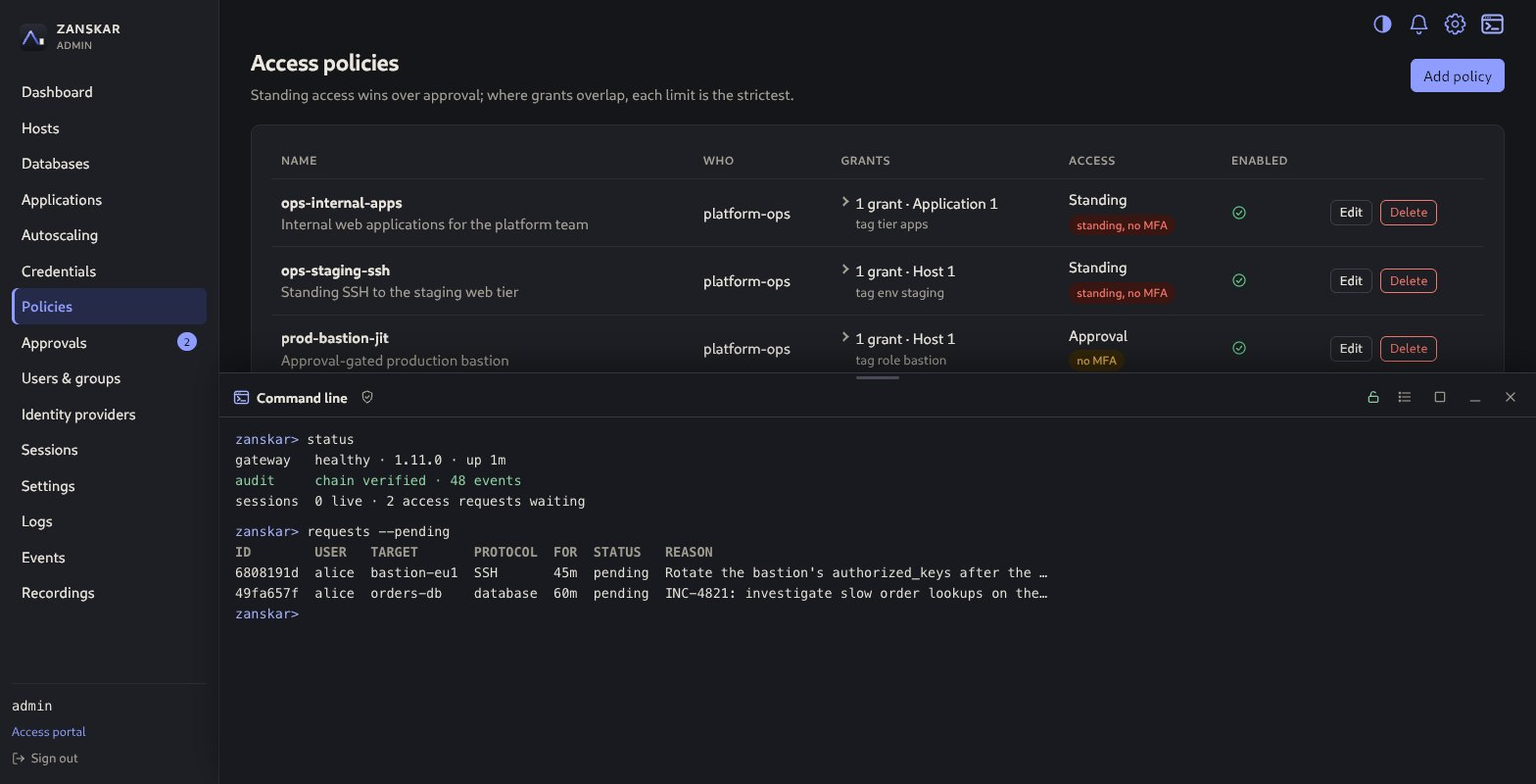
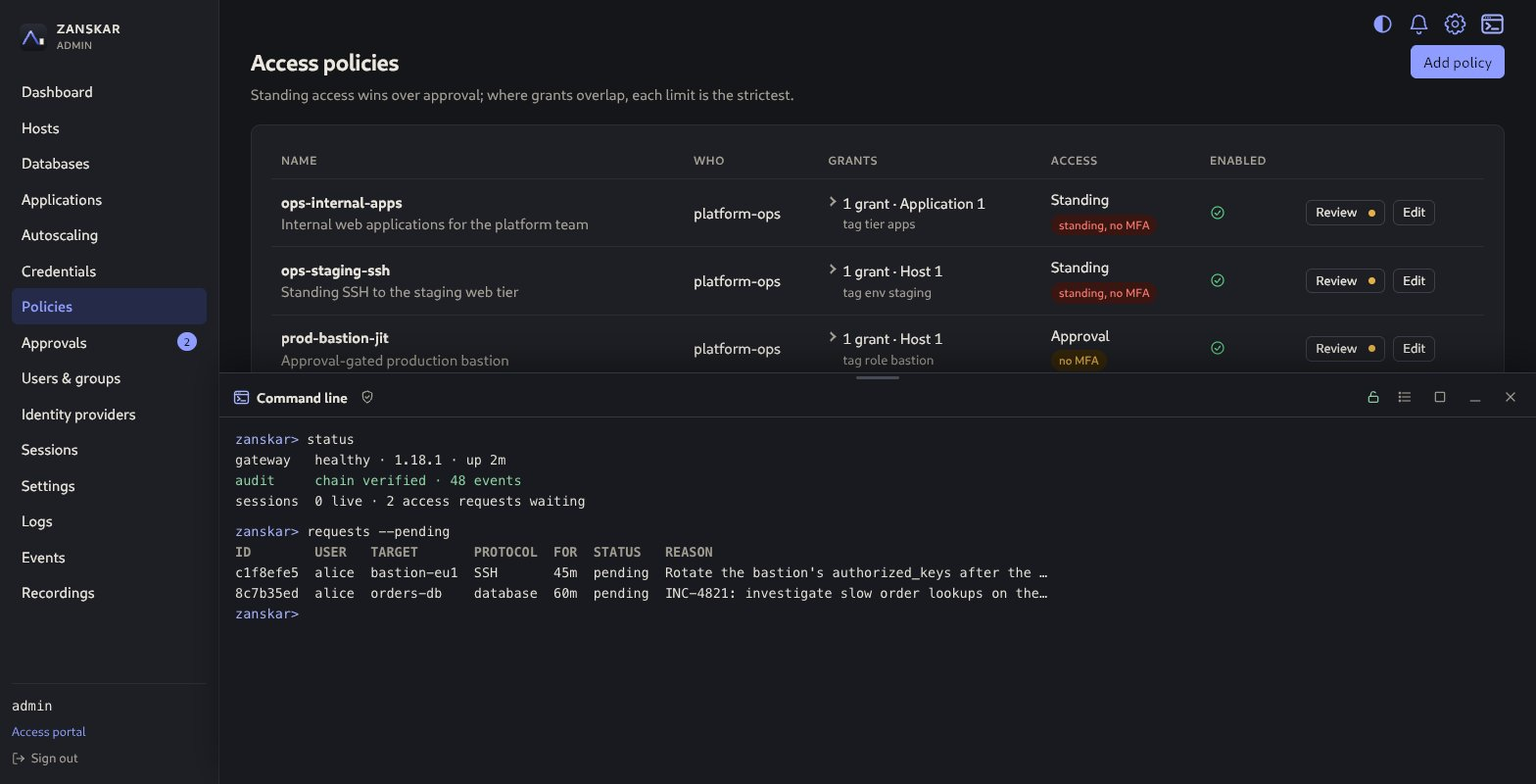
Site: screenshots retaken at 1.18.1
The site and the README still showed 1.11.0: the sidebar's strip beside the
selected item (gone in this batch), the dashboard before its rows of four and
without the providers tile (1.17.0 and 1.18.0). Retaken with hack/screenshots
from a Linux gateway built at this release (the gateway card reads /proc), one
SSH session opened so the activity tiles are not empty; both schemes, the same
thirteen pages, the 1.11.0 files removed.

diff --git a/site/guide/index.html b/site/guide/index.html
@@ -9,7 +9,7 @@
   <meta property="og:title" content="Zanskar how-to guide">
   <meta property="og:description" content="From first sign-in to approved, recorded sessions: every admin and user task in Zanskar 1.2.">
   <meta property="og:type" content="website"><meta property="og:url" content="https://albatroxxx.github.io/zanskar/guide/">
-  <meta property="og:image" content="https://albatroxxx.github.io/zanskar/assets/policies-1.11.0.jpg"><meta name="twitter:card" content="summary_large_image">
+  <meta property="og:image" content="https://albatroxxx.github.io/zanskar/assets/policies-1.18.1.jpg"><meta name="twitter:card" content="summary_large_image">
   <link rel="icon" href="../assets/logo.svg" type="image/svg+xml"><link rel="stylesheet" href="../assets/site.css"><script src="../assets/site.js" defer></script>
 </head>
 <body>
@@ -27,10 +27,10 @@
 
     <h2 id="dashboard">The dashboard and the corner strip</h2>
     <p>An administrator signs in to the <strong>Dashboard</strong>, which fits one screen: the fleet and what waits on a decision on the left, the gateway itself in a column on the right. Each number opens the page that manages it, and the logo returns here from anywhere. <em>Inventory</em> comes first and counts the hosts by operating system, the databases by engine, the applications, and the autoscaling groups with their instance health. Each section is one row of four tiles. <em>Needs attention</em> counts pending approvals (with how long the oldest has waited), hosts waiting on a key or certificate decision, the day's failed sign-ins, and the day's failed actions, with what most of them were (<em>mostly provider syncs</em>). <em>Activity</em> counts the open sessions, the just-in-time grants running now (and how many end within the hour), the day's sessions and the day's refused connections. A provider that fails its sync is a notice above the tiles, not a tile. Under <em>Refused connections</em> and <em>Sessions</em> seven small columns show the last seven calendar days in the console's time zone, today last and in the accent colour, counted so far; hover a column for its day and count. <em>Security posture</em> counts what weakens access: grants that stand without asking for MFA and the policies they are in, accounts with no authenticator yet, accounts that have not signed in for 90 days, and administrators. On the right, a clock shows the gateway's own time, ticking each second, with the date and the time zone on a line below (<em>Asia/Kolkata · UTC+05:30</em>); the zone is the one every time in the console is shown in, set under <a href="#settings">Settings</a>, <em>Display</em>. The <em>Gateway</em> card under it shows the running version, CPU, memory and the disks the gateway writes, each a name and a reading led by a percentage (<em>45% used · 410.7 MB of 908.6 MB</em>) over a bar, in the warning or danger colour when it is one; a disk's percentage is worked out as <code>df</code> works out <em>Use%</em>, so it matches what a terminal on the host shows, and the recordings disk warns before recordings start failing. Application and database sessions are gauges against their caps (<em>80% of the cap · 8 of 10 open</em>), warning at four fifths and in danger at the cap, where the next one is refused; a kind with no cap is a count instead. Below them, the disk Zanskar's container images take on the host and whether guacd answers. <em>Storage</em> closes the column with two tiles: the <em>Audit log</em>'s size, estimated from its newest thousand events, with how many it holds, and the size of the <em>Recordings</em> kept, exact, with how many. The two columns start and end level. A review-only account lands on an audit dashboard instead: the day's failures and sessions, with a button that checks the whole audit chain. The access portal opens on Targets, with a strip of your own open sessions, pending requests and grants about to run out.</p>
-    <figure><img src="../assets/dashboard-1.11.0.jpg" alt="Zanskar admin dashboard on one screen: on the left, rows of tiles for the inventory, what needs attention, activity with a week of sessions drawn as small columns, and security posture (two grants standing without MFA, in red); on the right, a clock with the date and time zone, the gateway card with CPU, memory, disk and session-cap gauges, each a name and a percentage on one line over a bar, and storage tiles for the audit log and the recordings" width="1568" height="736" loading="lazy"></figure>
+    <figure><img src="../assets/dashboard-1.18.1.jpg" alt="Zanskar admin dashboard on one screen: on the left, rows of tiles for the inventory, what needs attention, activity with a week of sessions drawn as small columns, and security posture (two grants standing without MFA, in red); on the right, a clock with the date and time zone, the gateway card with CPU, memory, disk and session-cap gauges, each a name and a percentage on one line over a bar, and storage tiles for the audit log and the recordings" width="1568" height="736" loading="lazy"></figure>
     <p>The top-right corner holds four controls, each opening under its own icon. The <strong>theme</strong> icon (a half-filled circle) offers <em>System</em>, <em>Light</em> and <em>Dark</em>; <em>System</em> follows the operating system, and the choice is kept in this browser only. The access and audit portals have this one control alone. The <strong>bell</strong> lights when a newer release is published and drops a small panel with the update (see <a href="../docs/#update">updating</a>). The <strong>gear</strong> drops a menu of <em>Restart gateway</em>, <em>Reboot host</em> and <em>Stop host</em>, the last in red; the arrow keys move through it and Escape closes it. Each action lets live sessions finish for the minutes you choose, asks you to type the gateway's hostname, and asks for a code from your authenticator unless you proved one in the last five minutes. Stopping is deliberate about its cost: nothing in the console can start a stopped machine, so starting it again needs the host or the cloud console. An action this gateway cannot take is greyed out with one line of why: on Docker and Kubernetes the two host actions say <em>Needs a systemd host.</em> The <strong>terminal</strong> icon opens the <a href="#console-cli">command line</a>.</p>
     <p>Once an action starts, its dialog follows it to the end instead of closing: <em>Waiting for live sessions</em> with the count and the deadline, then <em>Installing 1.10.0</em> in the installer's own words for an update, <em>Restarting</em> or <em>Rebooting the host</em>, and <em>Back on 1.10.0</em> or <em>Back online</em>. It ends with a green tick (<em>Updated to 1.10.0</em>, <em>Gateway restarted</em>, <em>Host rebooted</em>, <em>Host stopped</em>) and <strong>Close</strong>, or <strong>Reload console</strong> after an update, which loads the new version's console; or it ends with the reason it failed: an installer that refused the download, a gateway that came back on the old version, or no answer within the time allowed. Success is judged by the gateway's own answers, a fresh process on the version asked for, not by the request having been sent. While sessions are still finishing, <em>Cancel</em> stops the action and the gateway carries on. Closing the dialog does not stop the action.</p>
-    <figure><img src="../assets/gateway-gear-1.11.0.jpg" alt="Zanskar gateway menu dropped from the gear in the corner: Restart gateway, Reboot host and Stop host, the two host actions greyed with the reason" width="1568" height="720" loading="lazy"></figure>
+    <figure><img src="../assets/gateway-gear-1.18.1.jpg" alt="Zanskar gateway menu dropped from the gear in the corner: Restart gateway, Reboot host and Stop host, the two host actions greyed with the reason" width="1568" height="720" loading="lazy"></figure>
     <p>Your username at the bottom of the sidebar opens your account: name, email, roles, authenticator state and sign-in times.</p>
     <h2 id="users">Add users and groups</h2>
     <ol><li><strong>Users &amp; groups</strong> in the admin sidebar. Create a user with a username, display name and one or more roles, and pick the groups they belong to in the same form (<em>Groups</em>, a searchable list with <em>Select all</em>, shown once a group exists). Leave the password blank and a one-time password is generated and shown once, for you to pass on; at their first sign-in the user must replace it, then enrol an authenticator, before reaching anything. <em>Reset password</em> on the same page does the same later.</li><li>Create a group, and pick its members as you create it (<em>Members</em>), or add them later. The group and its memberships are made together: if one of them cannot be made, nothing is. A group synced from an identity provider is greyed out in a user's <em>Groups</em> list, <em>Members come from the provider</em>, since the next sync would undo a member added by hand. Policies are written against groups (or a single user), so a sensible starting set is one group per team that needs access, plus one for approvers.</li><li>Disable a user to block sign-in without deleting history; revoke their sessions from the same page if they are connected right now. An account its identity provider took away, because the person was deleted or disabled there, cannot be enabled here while that provider still lists or pushes its people: <em>Enable</em> is greyed out and the status says <em>Keycloak no longer has this person</em>. It is enabled again by itself when the provider has the person again.</li></ol>
@@ -117,7 +117,7 @@
     </tbody></table>
     <p><strong>The user's own login.</strong> A target's credential slot can be set to <em>User supplied</em> instead of a stored credential: Zanskar then asks the person for their own username and password when they connect, and for SSH they may give their own private key instead, with its passphrase when it has one. It is checked when they click Connect, used for that one session and never stored; it is not a credential, so it is not listed under Credentials. On their Targets page the two read apart by colour: a protocol Zanskar signs them in to with a stored credential is green, one where they give their own login keeps the protocol's colour, and where a grant offers both they sit side by side; each button's tooltip says which it is.</p>
     <p>Passwords and SSH keys are rotated in place: the credential keeps its id, so every target bound to it picks up the new secret immediately. A certificate authority is rotated in two steps from its Setup panel, prepare then cut over, with a per-target test in between, so no host is left refusing logins.</p>
-    <figure><img src="../assets/ssh-ca-1.11.0.jpg" width="1568" height="720" alt="Zanskar Credentials page with the Setup panel of the linux-fleet-ca certificate authority open: the commands that install its public key on a Linux target, the bound targets web-01 and web-02 each with a Test button, and the two-step key rotation" loading="lazy"><figcaption>A certificate authority's Setup panel: the commands for each Linux target, a certificate login test per bound target, and the two-step rotation.</figcaption></figure>
+    <figure><img src="../assets/ssh-ca-1.18.1.jpg" width="1568" height="720" alt="Zanskar Credentials page with the Setup panel of the linux-fleet-ca certificate authority open: the commands that install its public key on a Linux target, the bound targets web-01 and web-02 each with a Test button, and the two-step key rotation" loading="lazy"><figcaption>A certificate authority's Setup panel: the commands for each Linux target, a certificate login test per bound target, and the two-step rotation.</figcaption></figure>
 
     <h2 id="targets">Enroll targets</h2>
     <p><strong>Hosts</strong> in the admin sidebar, then <strong>Add host</strong> (databases have their own <a href="#database">Databases</a> page, web applications their own <a href="#applications">Applications</a> page). A name, a hostname or IP address and an operating system are enough to start; tags, each a key and a value such as <code>env</code> <code>prod</code> or <code>role</code> <code>db</code>, are what policies select on, so tag consistently from day one. <strong>Add tag</strong> gives a row with a Key box and a Value box.</p>
@@ -146,7 +146,7 @@ netsh advfirewall firewall add rule name="WinRM HTTPS" dir=in action=allow proto
     <p>For a Linux desktop or anything else that serves VNC: add the host (on a Linux host the VNC port is under <strong>More ports</strong>; operating system <em>other</em> shows it directly), set the VNC port if it is not 5900, bind a password credential to <em>vnc</em> (with a username only if the VNC server asks for one), then <strong>Probe</strong>. The probe reads the server's VNC version; there is no host key or certificate to pin. VNC itself usually does not encrypt, so keep the hop between the gateway and the machine on a private network. Desktops go through guacd, as for RDP, and are recorded the same way. VNC sessions have no file transfer.</p>
     <h3 id="database">PostgreSQL, MySQL and MariaDB, including Amazon RDS</h3>
     <ol><li>Under <strong>Databases</strong>, add the endpoint with its engine (<em>postgres</em>, <em>mysql</em> or <em>mariadb</em>), hostname and port (5432 or 3306). Optionally record the engine version so the matching <code>psql</code>, <code>mysql</code> or <code>mariadb</code> client is used, the database to open, and how TLS to the database is checked. <strong>Verified</strong> is the default and needs the CA bundle that signs the database's certificate: for Amazon RDS, paste your region's bundle from <code>https://truststore.pki.rds.amazonaws.com/&lt;region&gt;/&lt;region&gt;-bundle.pem</code> (the global bundle is too large). <em>Encrypted, not verified</em> is available and shows a warning on the target, since whoever can intercept the connection could then impersonate the database and receive its password.</li><li>In its credential slot pick a vaulted password credential, or <em>User supplied</em> to have each user type their own database login.</li><li>Ensure Docker or Podman is available on the gateway host, and that the <code>zanskar</code> service user may use it. The package does not grant that by itself, because the Docker socket is as powerful as root. On a host that serves database targets run <code>sudo systemctl edit zanskar</code>, add <code>[Service]</code> and <code>SupplementaryGroups=docker</code>, and restart; for Podman, set <code>ZANSKAR_DOCKER_PATH</code> to the <code>podman</code> binary. Each session starts a client container connected to a credential-holding sidecar on a private per-session network: pgbouncer for PostgreSQL, the gateway's own image running its MySQL relay for MySQL and MariaDB. The container the user types into never receives the password; the sidecar refuses re-authentication so it cannot be used to guess one.</li><li>A MySQL or MariaDB session opens with no schema selected; users pick one with <code>USE</code>.</li></ol>
-        <figure><img src="../assets/databases-1.11.0.jpg" width="1568" height="720" alt="Zanskar Databases page listing a MySQL 8.4 database whose TLS is encrypted but not verified, and a PostgreSQL 16 database on Amazon RDS whose TLS is verified, each with its database, credential and tags" loading="lazy"><figcaption>The Databases page flags any database whose certificate Zanskar is not checking.</figcaption></figure>
+        <figure><img src="../assets/databases-1.18.1.jpg" width="1568" height="720" alt="Zanskar Databases page listing a MySQL 8.4 database whose TLS is encrypted but not verified, and a PostgreSQL 16 database on Amazon RDS whose TLS is verified, each with its database, credential and tags" loading="lazy"><figcaption>The Databases page flags any database whose certificate Zanskar is not checking.</figcaption></figure>
     <h3 id="applications">Web applications</h3>
     <p>An application is an internal web app reached through Zanskar instead of a VPN: a wiki, a dashboard, a build server. It opens in a browser that runs beside the gateway, in a container made for that session, and is streamed to the person as pixels through guacd, the way a VNC desktop is. Nothing is installed on the client, no DNS record or certificate is needed, and the person's own browser never talks to the application. Policies grant it under the <em>HTTP</em> protocol, with approvals, time windows and limits as for a host. It is a full browser: Chromium's own address bar, tabs, Back, Forward, Reload and Home (the application's start page, which every new tab opens too), confined to the application's origin, so an engineer can see where a page is and open another while nothing else is reachable. Developer tools open when the grant allows them (below).</p>
     <ol><li><strong>Before the first application</strong>: the gateway host needs a guacd address (the one RDP and VNC use) and a container runtime the service user can reach, the same requirement as <a href="#database">database access</a>: the <code>SupplementaryGroups=docker</code> drop-in, or <code>ZANSKAR_DOCKER_PATH=podman</code>. guacd must be on the runtime's default bridge, where the install page's <code>docker run</code> puts it. Until these are met the Applications page is a checklist (guacd, container runtime, browser image) with <strong>Check again</strong>, and <strong>Add application</strong> appears once all three pass; a browser image the host has not pulled yet passes, because the first session pulls it. Not available in the Compose stack or on Kubernetes, where the gateway has no container runtime.</li><li><strong>Applications</strong> in the admin sidebar, then <strong>Add application</strong>: a name, the upstream (<code>http://10.20.6.30:8080</code> or <code>https://wiki.internal:8443</code>, the page the browser opens), any <strong>Other endpoints</strong> the application uses, such as an API on another host or its sign-in page (up to 31, each an address and a name for its bookmark), where its pages may load from beside those (<strong>Dependencies</strong>: <em>Any public address</em>, the default, with <strong>Private networks</strong> and <strong>Private hosts</strong> its pages may also load from; or <em>Its origins only</em>, under which nothing is read and nothing else is reached, and which ends the application's open sessions when chosen later), an optional CA bundle for <code>https</code> addresses, and tags. An <code>https</code> address is verified against the system roots or against the bundle; there is no way to switch verification off. Every address passes the same rules as any target's: never loopback, link-local, a cloud metadata service or the gateway itself. Removing an endpoint ends the sessions open on the application.</li><li>Write a policy granting <em>HTTP</em> on the application, by tag or by name. Require approval, time windows, the idle timeout, the maximum session and the clipboard rule apply as for a desktop. <strong>Developer tools</strong>, an application grant's own condition, off by default, opens Chromium's developer tools in that person's browser for troubleshooting: the browser is that session's alone, so the tools see nothing else, and <code>chrome://</code> pages stay blocked. Where several grants admit a person, every one must allow them; turning them off ends a running session. An application holds no credential: the application's own sign-in, if it has one, is the person's.</li><li>People find it under the <strong>Applications</strong> tab of their Targets page and open it as a session tab. The gateway starts, for that session alone, a private network with no route out, a sandboxed Chromium, and a relay that is the browser's only way out: it takes connections to the application's addresses, each to the address the gateway looked up when the session started, and, unless the application is held to its origins, reads the session's requests as an HTTP proxy (terminating TLS with a certificate authority made for that session alone, verifying the real site itself) and lets its pages fetch what they depend on (stylesheets, scripts, fonts, images, frames, API calls, WebSockets) from any public address on any port, resolving each name itself and refusing anything private, link-local or a cloud metadata service; a private address its pages need is allowed under <strong>Dependencies</strong> as a network or a host, and the application's page in the console lists what was refused (<em>Blocked</em>) with <strong>Allow</strong> beside each private host. Opening a page is held to the application's addresses either way: the address bar, a link, a new tab or a popup to anywhere else shows <em>This page is blocked</em>. Chromium opens the upstream, shows the other endpoints as one bookmarks folder named after the application, and blocks downloads, printing, developer tools, extensions, sign-in, sync, password saving and autofill. An endpoint whose name does not resolve is left out of that session; the rest opens. Everything is destroyed when the session ends.</li><li>Sessions appear on the Sessions pages like a desktop: terminable and shadowable there, recorded as a pixel stream and replayable, ended by the policy's limits, a terminate, a sign-out or a policy change. The audit log records the session's connect, start and end with protocol <em>http</em>.</li></ol>
@@ -171,7 +171,7 @@ netsh advfirewall firewall add rule name="WinRM HTTPS" dir=in action=allow proto
     <p>There is no moment to configure an instance that appeared four minutes ago and may be gone in an hour, so the machine image or the launch template's user data has to do it. For a Windows group that means the <a href="#winrm-listener">HTTPS WinRM listener</a>, the firewall rule, the operator account in local Administrators, and the domain join if you use one. Bake it into the image where you can; user data that runs on first boot works too, and is slower to become reachable.</p>
     <p>Each instance is pinned <strong>separately</strong>. The first time an instance answers, Zanskar keeps the RDP and WinRM certificate it presented, along with its SSH host key for a Linux group. If that instance later presents a different certificate, it is not re-trusted: the instance is marked unhealthy, the change is audited, and sessions on it end. Replacing a certificate in place therefore takes the instance out of the pool until the group replaces it, which is the behaviour we want and will surprise someone eventually.</p>
     <p>This is trust on first sight, and weaker than an administrator reading a fingerprint off the console of a machine that will be there tomorrow. For SSH, Zanskar does better where AWS allows it: the host key is cross-checked against the fingerprints cloud-init prints to the serial console, and an instance whose key does not match what the console published is refused outright rather than pinned.</p>
-    <figure><img src="../assets/user-targets-1.11.0.jpg" width="1568" height="720" alt="Zanskar user portal Targets page with Hosts, Databases, Applications and Autoscaling tabs: bastion-eu1 shows Request because it needs approval, web-01 and web-02 show an SSH button" loading="lazy"><figcaption>What a user sees: one button per protocol the policy allows, and <em>Request</em> where approval is required.</figcaption></figure>
+    <figure><img src="../assets/user-targets-1.18.1.jpg" width="1568" height="720" alt="Zanskar user portal Targets page with Hosts, Databases, Applications and Autoscaling tabs: bastion-eu1 shows Request because it needs approval, web-01 and web-02 show an SSH button" loading="lazy"><figcaption>What a user sees: one button per protocol the policy allows, and <em>Request</em> where approval is required.</figcaption></figure>
 
     <h2 id="policies">Write an access policy</h2>
     <p><strong>Policies</strong>, then <strong>Add policy</strong>, which opens a page in three parts. A policy says <em>who</em> and holds <em>grants</em>; each grant says what it covers and under which conditions, completely and on its own.</p>
@@ -181,7 +181,7 @@ netsh advfirewall firewall add rule name="WinRM HTTPS" dir=in action=allow proto
     <p><strong>The policy list</strong> sums each policy up in one row. <em>Grants</em> reads <em>3 grants · Host 2 · Autoscaling 1</em> with <em>2 targets · tag env test</em> under it; click it and the row opens to a table of the policy's grants: type, targets or tags with their protocols, access, MFA, clipboard and files, sign-in, idle and maximum minutes, windows and recording retention. <em>Who</em> is cut short (<em>ops, sre +28 · 4 users</em>); the full list is in the opened row. <em>Access</em> shows the loosest terms across the grants, since each grant admits on its own: <em>Standing</em>, <em>Approval</em> or <em>Standing ×7 · Approval ×5</em>; <em>MFA</em> only when every grant asks for an authenticator, a <em>standing, no MFA</em> badge in the danger colour when a standing grant does not, a <em>no MFA</em> badge in the warning colour for an approval grant without it, and clipboard, files and own login only when some grant turns them on. A target that no list holds any more is counted as <em>not found</em>.</p>
     <p><strong>Live sessions follow the policies.</strong> When a policy, a group's members or a group itself changes, the sessions of everyone it touches are checked again against what they may do now: a session ends when a fresh connect would be refused, or when its clipboard or file transfer would now be off. A shorter idle timeout, maximum or window does not end a session already running.</p>
     <p><strong>Upgrading to 1.8</strong> converts every stored policy: its group or user becomes the policy's one subject, and its targets, tags and rules become grants of each type they reached, with the policy's conditions on each. A tag rule that granted SSH becomes a host grant and an autoscaling grant, since it matched both before; delete the half you never meant. Targets that no longer exist, or could not serve any of the policy's protocols, are left out and named in the log.</p>
-    <figure><img src="../assets/policies-1.11.0.jpg" width="1568" height="720" alt="Zanskar Access policies page: four policies, each with who it is for, a one-line sum of its grants that opens to a table, and an Access column with standing or approval and a no-MFA badge, giving standing access to internal applications and staging SSH and approval-gated access to the production bastion and database" loading="lazy"><figcaption>Standing access for staging; eligibility-only for production.</figcaption></figure>
+    <figure><img src="../assets/policies-1.18.1.jpg" width="1568" height="720" alt="Zanskar Access policies page: four policies, each with who it is for, a one-line sum of its grants that opens to a table, and an Access column with standing or approval and a no-MFA badge, giving standing access to internal applications and staging SSH and approval-gated access to the production bastion and database" loading="lazy"><figcaption>Standing access for staging; eligibility-only for production.</figcaption></figure>
 
     <h2 id="connect">Connect to a target</h2>
     <ol><li>In the user portal, <strong>Targets</strong> lists everything your policies allow, with one button per protocol. Click <strong>SSH</strong> or <strong>WinRM</strong> for a terminal (WinRM opens PowerShell on the Windows host), <strong>RDP</strong> or <strong>VNC</strong> for a desktop, <strong>SQL client</strong> for a database, <strong>Open</strong> for a web application.</li><li>An application opens as a session tab too, streamed from a browser beside the gateway like a desktop; its screen stays the size your window had when you opened it.</li><li>The session opens in a new tab, so you can run several at once and keep the list where it was; a session link opened from anywhere else (pasted, bookmarked) asks before it connects. A header shows the target, protocol, elapsed and idle time, and a <em>recorded</em> marker. The full-screen button hides everything but the session.</li><li><strong>Ctrl+Shift+F6</strong> moves the keyboard from the session to the header's controls (Tab moves through them, Enter presses one) and, pressed again, back to the session. F6 alone goes to the remote machine, where browsers, Windows programs and some terminal tools use it. On a MacBook add Fn unless the function keys are set to standard.</li><li>For SSH targets whose policy allows file transfer, <strong>Files</strong> opens a panel beside the terminal: browse the remote home directory, download a file, or upload one. Transfers are audited with path and size and are not part of the recording.</li><li><strong>Disconnect</strong> ends the session. Idle and maximum limits end it for you; the recording is finalised either way.</li></ol>
@@ -196,7 +196,7 @@ netsh advfirewall firewall add rule name="WinRM HTTPS" dir=in action=allow proto
     <p>Admins find <strong>Events</strong> and <strong>Recordings</strong> in their own console, below Logs. An account that holds only <code>auditor</code> gets these pages, and Sessions, as the <strong>Audit</strong> portal, and nothing else. Reading anything here is itself audited.</p>
     <ul><li><strong>Events</strong>: who signed in, who opened which target, what changed, who reviewed what. Filter by user, action, object type and time. The header shows <em>chain intact</em> when the hash chain verifies. <strong>details</strong> on a row names the action and the object in words, <em>Authenticator enrolled</em> on <em>User alice</em>; hover either for the stored action code and the full id, which is what an export or a SIEM carries.</li><li><strong>Recordings</strong>: every session with user, target, protocol, duration and how it ended. <strong>Review</strong> opens the recording in a tab of its own, so several can be open side by side; it plays a terminal recording with a command list you can click to seek, or a desktop recording as video-style playback.</li><li><strong>Sessions</strong>: every connection, with <em>Live only</em> to see what is running now. <strong>Watch</strong> shadows a live session read-only in a tab of its own, so several can be watched at once, and is itself audited. Admins also have <strong>Terminate</strong>, which ends the session with a reason; auditors find the same page, without Terminate, in the Audit portal.</li></ul>
     <p>Recordings and, for terminals, the command transcript can be <strong>downloaded</strong> from the recording page; each download is an audit event of its own, like each view.</p>
-    <figure><img src="../assets/audit-events-1.11.0.jpg" width="1568" height="800" alt="Zanskar admin console, Events page below Logs in the sidebar: filters for user, action, outcome, object type and time, a chain-intact indicator, and events in plain sentences, newest first: alice ended the SSH session on web-02 (user exit), opened it, signed in, and requested SSH access to bastion-eu1 and database access to orders-db; the session's end is open and reads Action: Session ended, Object: Session alice to web-02 (SSH), with its reason and target" loading="lazy"><figcaption>Events inside the admin console. Every row says who did what in words; the stored action code and full id are one hover away. The <em>chain intact</em> badge is the live result of verifying the hash chain.</figcaption></figure>
+    <figure><img src="../assets/audit-events-1.18.1.jpg" width="1568" height="800" alt="Zanskar admin console, Events page below Logs in the sidebar: filters for user, action, outcome, object type and time, a chain-intact indicator, and events in plain sentences, newest first: alice ended the SSH session on web-02 (user exit), opened it, signed in, and requested SSH access to bastion-eu1 and database access to orders-db; the session's end is open and reads Action: Session ended, Object: Session alice to web-02 (SSH), with its reason and target" loading="lazy"><figcaption>Events inside the admin console. Every row says who did what in words; the stored action code and full id are one hover away. The <em>chain intact</em> badge is the live result of verifying the hash chain.</figcaption></figure>
     <p>For your SIEM, set <code>ZANSKAR_SIEM_SYSLOG_ADDR</code> or <code>ZANSKAR_SIEM_WEBHOOK_URL</code> in the environment file.</p>
     <ul><li><strong>Syslog</strong>: <code>tcp://collector:514</code>, or <code>tls://collector:6514</code> with <code>ZANSKAR_SIEM_SYSLOG_CA</code> naming the collector's CA. Events go as CEF, or as JSON with <code>ZANSKAR_SIEM_SYSLOG_FORMAT=json</code>.</li><li><strong>Webhook</strong>: an HTTPS endpoint receives <code>{"events":[...]}</code> batches. It needs <code>ZANSKAR_SIEM_WEBHOOK_SECRET</code> as well, 16 characters or more, and each request carries <code>X-Zanskar-Timestamp</code> and <code>X-Zanskar-Signature: sha256=&lt;HMAC of timestamp.body&gt;</code>; check it before trusting a batch.</li><li>Delivery is at least once: after a restart or a failed send, some events may arrive twice. Deduplicate on the event's id or hash.</li></ul>
     <p>Verify the chain from the command line on a schedule:</p>
@@ -242,7 +242,7 @@ netsh advfirewall firewall add rule name="WinRM HTTPS" dir=in action=allow proto
       <li><strong>Every line is in the audit log</strong>, including lines that only read, as <em>ran &ldquo;&hellip;&rdquo; on the command line</em> with how it ended.</li>
       <li><strong>No secrets, no host operations.</strong> Nothing takes a password or key, and backup, restore, key rotation and audit repair stay host commands (below).</li>
     </ul>
-    <figure><img src="../assets/console-cli-1.11.0.jpg" width="1568" height="800" alt="Zanskar admin console, Access policies page with the command line open at the bottom after a code was verified: status shows the gateway healthy, the audit chain verified and two access requests waiting; requests --pending lists alice's requests for SSH to bastion-eu1 and database access to orders-db with their reasons" loading="lazy"><figcaption>The command line under the Policies page: <code>status</code>, then the access requests waiting for a decision.</figcaption></figure>
+    <figure><img src="../assets/console-cli-1.18.1.jpg" width="1568" height="800" alt="Zanskar admin console, Access policies page with the command line open at the bottom after a code was verified: status shows the gateway healthy, the audit chain verified and two access requests waiting; requests --pending lists alice's requests for SSH to bastion-eu1 and database access to orders-db with their reasons" loading="lazy"><figcaption>The command line under the Policies page: <code>status</code>, then the access requests waiting for a decision.</figcaption></figure>
     <p>The full list, with every flag and an example, is in the <a href="https://github.com/albatroxxx/zanskar/blob/main/docs/console-cli.md">command reference</a>. To turn the command line off, set <code>ZANSKAR_CONSOLE_CLI=off</code> in the environment file and restart; it is not a console setting, so a stolen sign-in cannot turn it back on.</p>
 
     <h2 id="cli">Host command reference</h2>

diff --git a/site/index.html b/site/index.html
@@ -43,14 +43,14 @@
         <article><span class="index">09</span><h3>Recorded and audited</h3><p>Every session is recorded; recordings and command transcripts can be downloaded, and every view and download is itself audited. Retention is set globally and per policy or target. The audit log is hash-chained with a <code>verify</code> command and streams to a SIEM over syslog/CEF or a signed webhook.</p></article>
         <article><span class="index">10</span><h3>Operations</h3><p>One static binary with the web UI embedded. <code>zanskar init</code> serves HTTPS on 443 out of the box with a certificate you replace on the Settings page. Runtime settings apply live, the console says when the environment file needs a restart and drains sessions for it, recordings move to an S3-compatible bucket without a restart, and the Logs page shows the gateway's recent lines. Administrators can also work from a command line inside the console, opened with an authenticator code and audited line by line. <code>backup</code>, <code>restore</code> and <code>key rotate-master</code> stay on the host.</p></article>
       </div>
-      <figure><img src="assets/dashboard-light-1.11.0.jpg" width="1568" height="736" alt="The admin dashboard on one screen: on the left, tiles for the inventory of hosts, databases and applications, what needs attention (two pending approvals), activity with a week of sessions drawn as small columns, and security posture (two grants standing without MFA, in red); on the right, a clock with the date and time zone, the gateway card with CPU, memory, disk and session-cap gauges, each a percentage, and storage tiles for the size of the audit log and of the recordings" loading="lazy"><figcaption>The dashboard an administrator lands on, on one screen: the fleet, what waits on a decision, what is live and whether access is safe, beside the gateway host itself and what its evidence takes. Every number opens the page that manages it.</figcaption></figure>
+      <figure><img src="assets/dashboard-light-1.18.1.jpg" width="1568" height="736" alt="The admin dashboard on one screen: on the left, tiles for the inventory of hosts, databases and applications, what needs attention (two pending approvals), activity with a week of sessions drawn as small columns, and security posture (two grants standing without MFA, in red); on the right, a clock with the date and time zone, the gateway card with CPU, memory, disk and session-cap gauges, each a percentage, and storage tiles for the size of the audit log and of the recordings" loading="lazy"><figcaption>The dashboard an administrator lands on, on one screen: the fleet, what waits on a decision, what is live and whether access is safe, beside the gateway host itself and what its evidence takes. Every number opens the page that manages it.</figcaption></figure>
       <div class="gallery">
-        <figure><img src="assets/approvals-light-1.11.0.jpg" width="1568" height="720" alt="The Approvals page: two pending requests with user, target, protocol, reason and duration, each with Approve and Deny, and one active time-boxed grant with Revoke" loading="lazy"><figcaption>Just-in-time requests wait in the Approvals queue; an approved grant is time-boxed and expires by itself.</figcaption></figure>
-        <figure><img src="assets/hosts-light-1.11.0.jpg" width="1568" height="720" alt="The Hosts page: Linux and Windows machines with capabilities, host-key trust state, tags and last probe time" loading="lazy"><figcaption>Hosts are enrolled by address; the host key is pinned at the first probe, and any change blocks connections until an admin decides.</figcaption></figure>
-        <figure><img src="assets/user-targets-light-1.11.0.jpg" width="1568" height="720" alt="The access portal: the hosts a user's policies grant, with an SSH button on each, a Request button on the bastion that needs approval, and a count of pending requests" loading="lazy"><figcaption>What a user sees: only the targets their policies grant, a button per protocol, and a request where approval is required.</figcaption></figure>
-        <figure><img src="assets/applications-light-1.11.0.jpg" width="1568" height="720" alt="The Applications page: a checklist of what the gateway host still needs, then two web applications with their upstream, TLS state and tags" loading="lazy"><figcaption>Web applications are enrolled by address and open in an isolated browser beside the gateway, recorded like a desktop.</figcaption></figure>
-        <figure><img src="assets/audit-events-light-1.11.0.jpg" width="1568" height="800" alt="The audit events page: filters by user, action, object and time, then a list of events in plain words, a sign-in, a session opened and ended, access requested, each with a success mark; a badge says the chain is intact" loading="lazy"><figcaption>Every event in plain words, hash-chained, with the chain verified on the page and from the command line.</figcaption></figure>
-        <figure><img src="assets/console-cli-light-1.11.0.jpg" width="1568" height="800" alt="The console's command line open over the Policies page, after a status command and a listing of pending requests; a badge says the authenticator code is verified" loading="lazy"><figcaption>An audited command line inside the console, unlocked with an authenticator code, for the operations an admin repeats.</figcaption></figure>
+        <figure><img src="assets/approvals-light-1.18.1.jpg" width="1568" height="720" alt="The Approvals page: two pending requests with user, target, protocol, reason and duration, each with Approve and Deny, and one active time-boxed grant with Revoke" loading="lazy"><figcaption>Just-in-time requests wait in the Approvals queue; an approved grant is time-boxed and expires by itself.</figcaption></figure>
+        <figure><img src="assets/hosts-light-1.18.1.jpg" width="1568" height="720" alt="The Hosts page: Linux and Windows machines with capabilities, host-key trust state, tags and last probe time" loading="lazy"><figcaption>Hosts are enrolled by address; the host key is pinned at the first probe, and any change blocks connections until an admin decides.</figcaption></figure>
+        <figure><img src="assets/user-targets-light-1.18.1.jpg" width="1568" height="720" alt="The access portal: the hosts a user's policies grant, with an SSH button on each, a Request button on the bastion that needs approval, and a count of pending requests" loading="lazy"><figcaption>What a user sees: only the targets their policies grant, a button per protocol, and a request where approval is required.</figcaption></figure>
+        <figure><img src="assets/applications-light-1.18.1.jpg" width="1568" height="720" alt="The Applications page: a checklist of what the gateway host still needs, then two web applications with their upstream, TLS state and tags" loading="lazy"><figcaption>Web applications are enrolled by address and open in an isolated browser beside the gateway, recorded like a desktop.</figcaption></figure>
+        <figure><img src="assets/audit-events-light-1.18.1.jpg" width="1568" height="800" alt="The audit events page: filters by user, action, object and time, then a list of events in plain words, a sign-in, a session opened and ended, access requested, each with a success mark; a badge says the chain is intact" loading="lazy"><figcaption>Every event in plain words, hash-chained, with the chain verified on the page and from the command line.</figcaption></figure>
+        <figure><img src="assets/console-cli-light-1.18.1.jpg" width="1568" height="800" alt="The console's command line open over the Policies page, after a status command and a listing of pending requests; a badge says the authenticator code is verified" loading="lazy"><figcaption>An audited command line inside the console, unlocked with an authenticator code, for the operations an admin repeats.</figcaption></figure>
       </div>
     </section>
     <section class="principles band"><div><p class="eyebrow">HOW IT IS BUILT</p><h2>Secure by default.</h2><p>Zanskar is designed for compliance-driven environments: least standing privilege, separated authentication, and evidence for everything.</p><p>Read the <a href="https://github.com/albatroxxx/zanskar/blob/main/docs/threat-model.md">threat model</a> and the <a href="https://github.com/albatroxxx/zanskar/tree/main/docs/adr">architecture decision records</a>.</p></div><dl><div><dt>Two authentications, kept apart</dt><dd>Who you are to Zanskar (local, OIDC, LDAP/AD, MFA) is separate from how Zanskar authenticates to a target (password, key, certificate, domain credential).</dd></div><div><dt>Least standing privilege</dt><dd>Sensitive targets can be made eligible-only, so access exists only as a time-boxed, approved, audited grant.</dd></div><div><dt>Evidence for everything</dt><dd>Hash-chained audit log, recorded sessions, audited reads, SIEM export, signed releases with Sigstore.</dd></div><div><dt>Single instance, on purpose</dt><dd>One gateway, on embedded SQLite or your PostgreSQL, with a guacd sidecar for desktops. Running several replicas is not supported yet: ending or watching a live session has to work across gateways first, and the Helm chart stays a preview until it does.</dd></div></dl></section>

diff --git a/site/troubleshooting/index.html b/site/troubleshooting/index.html
@@ -9,7 +9,7 @@
   <meta property="og:title" content="Troubleshooting">
   <meta property="og:description" content="Where Zanskar logs, what its log lines and error codes mean, and the fix for each: guacd down, host key mismatch, wrong version number, invalid ticket, approval required.">
   <meta property="og:type" content="website"><meta property="og:url" content="https://albatroxxx.github.io/zanskar/troubleshooting/">
-  <meta property="og:image" content="https://albatroxxx.github.io/zanskar/assets/policies-1.11.0.jpg"><meta name="twitter:card" content="summary_large_image">
+  <meta property="og:image" content="https://albatroxxx.github.io/zanskar/assets/policies-1.18.1.jpg"><meta name="twitter:card" content="summary_large_image">
   <link rel="icon" href="../assets/logo.svg" type="image/svg+xml"><link rel="stylesheet" href="../assets/site.css"><script src="../assets/site.js" defer></script>
 </head>
 <body>

diff --git a/site/concepts/index.html b/site/concepts/index.html
@@ -9,7 +9,7 @@
   <meta property="og:title" content="Key concepts">
   <meta property="og:description" content="The master key, ExternalIds, host-key and certificate pins, session cookies, CSRF tokens and connect tickets: what each is, when it changes, how to back it up and rotate it.">
   <meta property="og:type" content="website"><meta property="og:url" content="https://albatroxxx.github.io/zanskar/concepts/">
-  <meta property="og:image" content="https://albatroxxx.github.io/zanskar/assets/policies-1.11.0.jpg"><meta name="twitter:card" content="summary_large_image">
+  <meta property="og:image" content="https://albatroxxx.github.io/zanskar/assets/policies-1.18.1.jpg"><meta name="twitter:card" content="summary_large_image">
   <link rel="icon" href="../assets/logo.svg" type="image/svg+xml"><link rel="stylesheet" href="../assets/site.css"><script src="../assets/site.js" defer></script>
 </head>
 <body>

diff --git a/site/docs/index.html b/site/docs/index.html
@@ -9,7 +9,7 @@
   <meta property="og:title" content="Install Zanskar">
   <meta property="og:description" content="Prerequisites, installation, configuration, upgrade and removal for Zanskar 1.2.">
   <meta property="og:type" content="website"><meta property="og:url" content="https://albatroxxx.github.io/zanskar/docs/">
-  <meta property="og:image" content="https://albatroxxx.github.io/zanskar/assets/hosts-1.11.0.jpg"><meta name="twitter:card" content="summary_large_image">
+  <meta property="og:image" content="https://albatroxxx.github.io/zanskar/assets/hosts-1.18.1.jpg"><meta name="twitter:card" content="summary_large_image">
   <link rel="icon" href="../assets/logo.svg" type="image/svg+xml"><link rel="stylesheet" href="../assets/site.css"><script src="../assets/site.js" defer></script><script src="../assets/tabs.js" defer></script>
 </head>
 <body>
